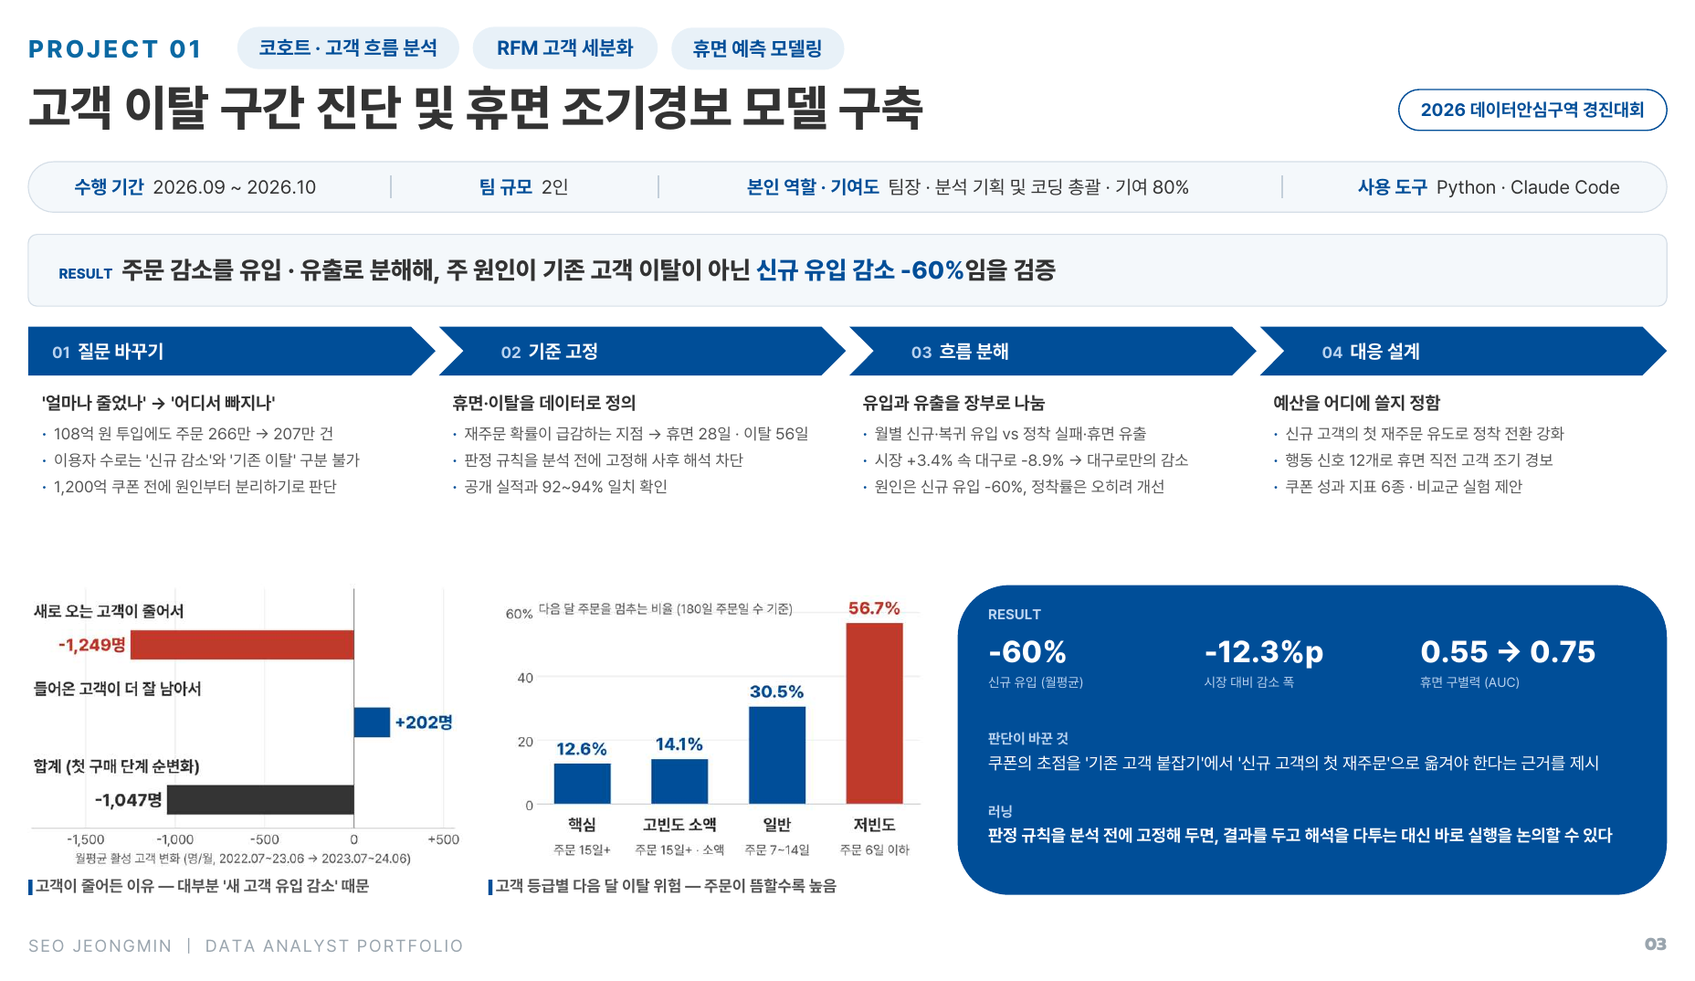
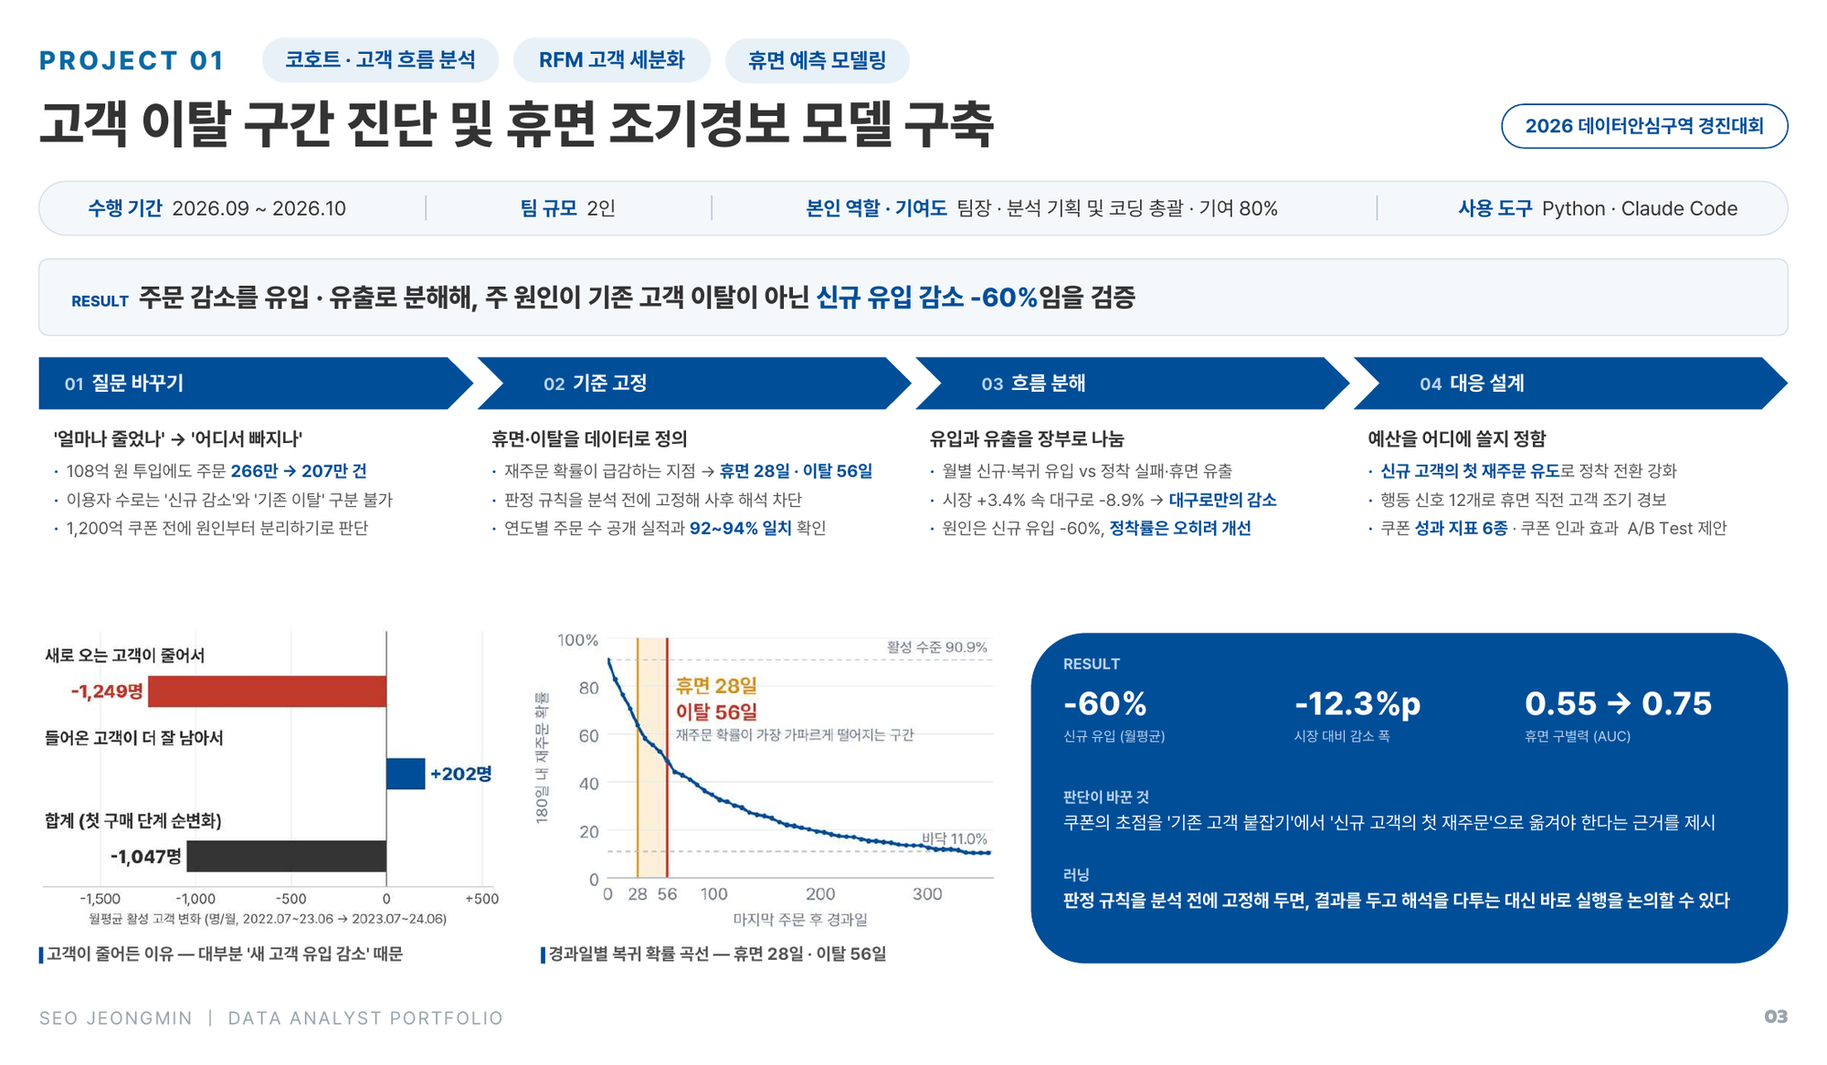
최신 이력서·포트폴리오(2026.11) 기준으로 프로필과 포트폴리오 업데이트
Claude-Session: https://claude.ai/code/session_0134F1m4MGLCqW6YdwAMnEyj

diff --git a/README.md b/README.md
@@ -3,13 +3,13 @@
 **데이터 기반 의사결정을 추구하는 데이터 분석가**
 
 문제를 어떻게 정의하고 구조화할지부터 정하고, 판정 기준을 분석 전에 고정한 뒤, 결론을 액션 중심으로 바꿔 전달해 왔습니다.
-소득계층별 체감물가 분석으로 **2026 국가데이터활용대회 전국 2위**를 수상했고, 기숙사 VOC 분석에서 나온 제안 **4건이 생활원 차기 운영계획에 반영**됐습니다.
+소득계층별 체감물가 분석으로 **2026 국가데이터활용대회 전국 2위**를 수상했고, 기숙사 VOC 분석에서 나온 제안 **4건은 생활원의 차기 운영계획에 공식 반영**됐습니다.
 
 📧 wjdals3232@gmail.com · 🔗 [github.com/mathsjm32](https://github.com/mathsjm32) · 🎖 육군 병장 만기전역 (2021.07 ~ 2023.01)
 
 | **-60%** | **AUC 0.55 → 0.75** | **전국 2위** | **2 → 20건** |
 |:---:|:---:|:---:|:---:|
-| 주문 감소의 원인(신규 유입) 규명 | 휴면 조기경보 구별력 개선 | 국가데이터활용대회 포스터 부문 | 주간 고객 문의 (4~8주차 평균) |
+| 주문 감소의 원인(신규 유입) 규명 | 휴면 조기경보 구별력 (기존 0.55) | 국가데이터활용대회 포스터 부문 | 주간 고객 문의 (4~8주차 평균) |
 
 ---
 
@@ -17,12 +17,32 @@
 
 | | 프로젝트 | 핵심 결과 |
 |:---:|---|---|
-| **P01** | [고객 이탈 구간 진단 및 휴면 조기경보 모델 구축](./Portfolio/고객이탈휴면조기경보)<br><sub>2026.09–10 · 2026 데이터안심구역 경진대회 · 공공배달앱 대구로 · 2인 팀장 · Python</sub> | 주문 감소의 주원인이 기존 고객 이탈이 아닌 **신규 유입 감소(-60%)** 임을 검증, 휴면 예측 AUC 0.55 → 0.75 |
-| **P02** | [경쟁사 분석 자동화로 SNS 운영 효율 및 성과 개선](./Portfolio/SNS경쟁사분석자동화)<br><sub>2026.09–10 · 글로브포인트 인턴(미래내일 일경험) · Supermetrics, Claude</sub> | 콘텐츠당 조회 **3.2~5.2배**, 주간 문의 **2 → 20건**, 경쟁사 탐색 10h → 1h |
-| **P03** | [소비 데이터 기반 계층별 부담 진단 및 타깃 전략 도출](./Portfolio/소득분위별소비분석)<br><sub>2026.04–07 · 국가데이터활용대회 우수상(전국 2위) · 개인 · Python</sub> | 저소득층 식료품·주거 부담 = 고소득층의 **1.8~2.1배**, 1분위 체감물가 +1.21%p (95% CI +0.73~+1.66) |
-| **P04** | [사용자 불만 데이터 기반 개선 우선순위 도출](./Portfolio/기숙사문제개선)<br><sub>2025.09–12 · 2025 정주대학 성과평가 우수상 · 기숙사 VOC · 3인 팀장 · SPSS, Python</sub> | 11개 불만 범주 → 최우선 2개 과제 압축, 차기 운영계획 **4건 반영** |
+| **P01** | [고객 이탈 구간 진단 및 휴면 조기경보 모델 구축](./Portfolio/고객이탈휴면조기경보)<br><sub>2026.09–10 · 2026 데이터안심구역 경진대회 · 공공배달앱 대구로 · 2인 팀장 · Python</sub> | 주문 감소를 유입 · 유출로 분해해, 주원인이 기존 고객 이탈이 아닌 **신규 유입 감소(-60%)** 임을 검증 · 휴면 조기경보 AUC 0.55 → 0.75 |
+| **P02** | [경쟁사 분석 자동화로 SNS 운영 효율 및 성과 개선](./Portfolio/SNS경쟁사분석자동화)<br><sub>2026.09–10 · 글로브포인트 인턴(미래내일 일경험) · Supermetrics, Claude</sub> | 감으로 만들던 숏폼을 업계 데이터로 검증한 공식으로 바꿔 콘텐츠당 조회 **3.2~5.2배** · 주간 문의 **2 → 20건** · 경쟁사 탐색 10h → 1h |
+| **P03** | [소비 데이터 기반 계층별 부담 진단 및 타깃 전략 도출](./Portfolio/소득분위별소비분석)<br><sub>2026.04–07 · 국가데이터활용대회 우수상(전국 2위) · 개인 · Python</sub> | 평균에 가려진 부담을 계층별로 쪼개, 저소득층 식료품 · 주거 부담 = 고소득층의 **1.8~2.1배** · 1분위 체감물가 +1.21%p (95% CI +0.73~+1.66) |
+| **P04** | [사용자 불만 데이터 기반 개선 우선순위 도출](./Portfolio/기숙사문제개선)<br><sub>2025.09–12 · 2025 정주대학 성과평가 우수상 · 기숙사 VOC · 3인 팀장 · SPSS, Python</sub> | 직접 설계한 설문으로 11개 불만 범주 → 최우선 2개 과제 압축, 차기 운영계획 **4건 공식 반영** (Wi-Fi 공유기 교체 · 냉장고 실명제 등) |
 
-👉 전체 포트폴리오: [Portfolio](./Portfolio)
+<details>
+<summary><b>프로젝트별 문제 해결 흐름 (이력서 요약)</b></summary>
+
+**P01 · 질문 바꾸기 → 기준 고정 → 흐름 분해 → 검증 · 대응**
+- **질문 바꾸기** 108억 원 투입에도 주문 266만 → 207만 건, 이용자 수로는 구분되지 않는 '신규 유입 감소 vs 기존 고객 이탈'을 분리 대상으로 설정
+- **기준 고정** 주문 877만 건 · 고객 60.4만 명에서 재주문 확률이 급감하는 지점으로 휴면 28일 · 이탈 56일 정의, 판정 규칙을 분석 전에 고정
+- **검증 · 대응** 연도별 주문 수 공개 실적과 92~94% 일치 · 6개 조건 재검증 후 시장 +3.4% 속 -8.9%의 원인을 신규 유입으로 확정, 휴면 조기경보(AUC 0.55 → 0.75) · 쿠폰 성과 지표 6종 제안
+
+**P03 · 질문 바꾸기 → 데이터 정합 → 격차 검증 → 모델 · 제안**
+- **질문 바꾸기** 평균 소비자물가지수가 계층별 차이를 가린다고 보고, 소득 5분위별 '체감물가 부담'을 측정 대상으로 재정의
+- **정합 · 검증** 가계동향 19.1만 가구 × 소비자물가를 품목 단위 디플레이터로 맞추고, 1분위 +1.21%p를 부트스트랩 95% CI(+0.73~+1.66)로 확인
+- **모델 · 제안** ML 9종 중 MAE 최저 HGB 대신 기간별 안정성이 높은 RF 채택, 하위 40% 우선 지원 기준 · 이상 징후 경보 룰(정책 신호등) 제안
+
+**P04 · 문제 정의 → 설문 재설계 → VOC 분석 → 설득 · 반영**
+- **문제 정의** 사생 2,700명의 불만이 흩어져 있고 기존 만족도 조사로는 원인을 알 수 없어, '무엇부터 고칠지'를 정하는 것을 목표로 설정
+- **설문 · VOC 분석** 29문항 설문(76명, α 0.886)과 서술형 텍스트 마이닝으로 11개 범주 중 취사실(36건) · Wi-Fi(35건)를 최우선으로 압축, 남자 기숙사 인터넷 불만 유의(p = 0.004)
+- **설득 · 반영** 4대 제안서로 생활원장 1:1 면담 → 설문 문항 개편 · 냉장고 이름/호실 기재 의무화 · Wi-Fi 공유기 교체 · 공부공간 2시간 이상 이석 시 벌점이 차기 운영계획에 반영
+
+</details>
+
+👉 전체 포트폴리오 (슬라이드 이미지 포함): [Portfolio](./Portfolio)
 
 ---
 
@@ -33,18 +53,20 @@
 
 감으로 만들던 숏폼을 업계 데이터로 검증한 공식으로 바꿔 **콘텐츠당 조회 3.2~5.2배 · 주간 문의 2 → 20건**
 
+`측정 설계` → `데이터 확보` → `통제 비교` → `팀 적용`
+
 - **측정 설계** 조회수 대신 구매 결정자의 주간 문의수를 KPI로 고정하고, 광고 100만 원 집행분은 전후 비교에서 분리
-- **데이터 확보** 경쟁사 193곳 채널 탐색을 Claude in Chrome으로 자동화(약 10시간 → 1시간), 불확실한 '추정' 16개만 직접 검수해 109개사 확보
+- **데이터 확보** 경쟁사 193곳 탐색을 Claude in Chrome으로 자동화(10시간 → 1시간), '추정' 16개는 직접 검수해 오연결 10개 정정 · 109개사 확정
 - **통제 비교** 38개 채널 숏폼 1,978개를 같은 채널·분기끼리 비교(95% 신뢰구간)해 채널 규모·시기 효과를 걷어내고, 해시태그 3개 이상(1.84배)·질문형 제목(1.22배) 확인
 - **팀 적용** 숏폼 기획·제작 매뉴얼로 16건을 같은 기준으로 운영(9건 개인 제작), 성과 진단 자동화 보고서(매일 09시 동기화)는 회사에 인수인계
 
 ---
 
-## 🧭 How I Work
+## 🧭 Strengths · 판단 방식
 
 | 문제를 쪼개는 구조화 | 결론 전에 기준 고정 | 데이터 기반 문제해결 |
 |---|---|---|
-| **신규 유입 -60%**<br>이용자 감소를 유입·유출로 분해해 주원인이 신규 유입 감소임을 특정 | **규칙 선고정 · CI**<br>판정 규칙을 미리 정하고 신뢰구간·미래 기간으로 결론을 검증 | **운영계획 4건 반영**<br>VOC로 '개선 우선순위'를 도출해 생활원 운영에 반영 |
+| **신규 유입 -60%**<br>이용자 감소를 유입 · 유출로 분해해 주원인이 신규 유입 감소임을 특정 | **규칙 선고정 · CI**<br>판정 규칙을 미리 정하고 신뢰구간·미래 기간으로 결론을 검증 | **운영계획 4건 반영**<br>VOC로 '개선 우선순위'를 도출해 생활원 운영에 반영 |
 
 ---
 
@@ -86,16 +108,17 @@
 
 ---
 
-## 🏆 Awards
+## 🏆 Awards & Scholarship
 
 | 일자 | 수상 | 주관 | 내용 |
 |:---:|---|---|---|
 | 2026.08 | **국가데이터활용대회 포스터 부문 우수상 (전국 2위)** | 국가데이터처 | '소득분위 계층별 소비구조 변화와 체감물가 부담의 분배적 분석' · 부문 유일 개인 수상 → [P03](./Portfolio/소득분위별소비분석) |
 | 2026.07 | 직무 포트폴리오 경진대회 장려상 (3위) | 인천대 취업경력개발원 | 4단계(실습교육 > 제작코칭 > 발표코칭 > 발표대회) 참여, 데이터분석 직무 포트폴리오 발표 |
 | 2025.12 | 2025 정주대학 성과평가 우수상 (2위) | 인천대 기초교육원 | 기숙사 VOC 분석으로 개선 우선순위 도출, 운영계획 반영 → [P04](./Portfolio/기숙사문제개선) |
+| 2025.03 | **한국지도자육성장학재단 장학생** | 한국지도자육성장학재단 | 교내 2명 총장 추천 → 전국 90명 내외 서류 · 면접 최종 선발 · 3, 4학년 등록금 전액 + 학기당 100만 원 |
 | 2024.12 | 2024 정주대학 성과평가 우수상 | 인천대 기초교육원 | 사망원인통계 기반 연령대별 맞춤형 금융교육 정책 제언 → [기타 프로젝트](./Portfolio/자살예방정책제언) |
-| 2024.10 | 우수 사회공헌 동아리활동 공모전 최우수상 (총장상) | 인천대 학생지원과 | 보육원 대상 6개월 수학 교육봉사 기획·운영 |
-| 2024.05 | 학생설계융합전공 설계 공모전 장려상 (3위) | 인천대 융합자유전공대학 | 수학 · 경영학 · 데이터과학 융합 복수전공 커리큘럼 설계 |
+| 2024.10 | 우수 사회공헌 동아리활동 공모전 최우수상 (총장상) | 인천대 학생지원과 | 보육원 대상 6개월 수학 교육봉사 기획 · 운영, 취약계층 학습 격차 해소 공로 |
+| 2024.05 | 학생설계융합전공 설계 공모전 장려상 (3위) | 인천대 융합자유전공대학 | 수학 · 경영학 · 데이터과학 융합 복수전공 커리큘럼 직접 설계 (교내 컨설턴트 상담, 데이터과학과 학과장 담임교수 지정) |
 
 ---
 
@@ -103,11 +126,10 @@
 
 | 기간 | 활동 | 내용 |
 |:---:|---|---|
-| 2025.03 – 12 | **기숙사 자치회장** | 사생 2,700명+ 대표 · 기숙사 운영위원회 최초 학생위원 · 자치회 서포터즈 1기 신설 · 사생 설문 데이터로 운영 개선 제안 |
-| 2025.01 – 12 | **수학과 학생회장** | 예산 · 행사 총괄, 모집 릴스 조회수 25.4만 회로 학생회 계정 활성화 |
+| 2025.03 – 12 | **기숙사 자치회장** | 사생 2,700명+ 대표 · 기숙사 운영위원회 최초 학생위원 · 자치회 서포터즈(도미크루) 1기 신설 및 SNS 홍보 · 사생 설문 데이터로 운영 개선 제안 |
+| 2025.01 – 12 | **수학과 학생회장** | 수학과 재학생 대표 · 학생회 총괄, 예산 집행 관리 · 학과 행사 기획 및 운영, 모집 릴스 조회수 25.4만 회로 학생회 계정 활성화 |
 | 2026.04 – 06 | **Python 데이터분석 스터디 튜터** | 튜티 3명에게 주 1회 2시간 교육, Claude Code로 수준별 교재 제작 |
 | 2024-2 · 2025-2 | 정주대학 데이터분석 프로젝트 팀장 | 2개 학기 팀장, 두 프로젝트 모두 성과평가 우수상 |
-| 2025.03 – 2026.12 | 한국지도자육성장학재단 장학생 | 교내 2명 총장 추천 → 전국 90명 내외 서류·면접 최종 선발 |
 | 2024.05 – 10 | 보육원 수학교육봉사 팀장 | 팀 구성 · 보육원 섭외부터 6개월 개인 과외 · 단체 활동 운영 (최우수상) |
 | 2024.09 – 2025.12 | 수학과 자기계발 소모임 회장 | 전공 스터디, 원어민 교수와의 영어회화, 생활습관 챌린지 운영 |
 
@@ -115,5 +137,5 @@
 
 | 기간 | 활동 | 내용 |
 |:---:|---|---|
-| 2025.07 · 2주 | **하와이주립대학 어학연수** | 인천대 대표 4인 선발 (대학 450만 원 지원), 집중 어학 연수 및 문화 교류 |
+| 2025.07 · 2주 | **하와이주립대학 어학연수** | 인천대 대표 4인 선발 (대학 450만 원 지원), 대표 학생으로 대학 · 프로그램 담당자와 소통, 집중 어학 연수 및 문화 교류 |
 | 2025.01 · 2주 | **캄보디아 교육봉사** | INU 글로벌 사회공헌단, 현지 학생 대상 과학 · 예체능 수업을 기획하고 영어로 진행 |

diff --git a/Portfolio/README.md b/Portfolio/README.md
@@ -2,8 +2,10 @@
 
 [← Resume로 돌아가기](../)
 
-모든 프로젝트를 **질문 바꾸기 → 기준 고정 → 분해 · 검증 → 대응 설계**의 같은 흐름으로 정리했습니다.
-각 프로젝트 페이지에 슬라이드 원본 이미지와 상세 과정을 담았습니다.
+데이터분석 직무 포트폴리오는 **① 프로필 · ② 데이터 기반 문제 해결(P01~P04) · ③ 기획력 · 실행력 · ④ 리더십 · ⑤ 글로벌 커뮤니케이션** 순으로 구성했습니다.
+모든 프로젝트를 **질문 바꾸기 → 기준 고정 → 분해 · 검증 → 대응 설계**의 같은 흐름으로 정리했고, 각 프로젝트 페이지에 최신 슬라이드 이미지와 상세 과정을 담았습니다.
+
+<img src="./profile.png" width="720" alt="포트폴리오 프로필 페이지">
 
 ---
 
@@ -11,7 +13,8 @@
 `코호트 · 고객 흐름 분석` `RFM 고객 세분화` `휴면 예측 모델링` · 2026 데이터안심구역 경진대회 · 2인 팀장 · Python
 
 - 108억 원 투입에도 주문이 266만 → 207만 건으로 줄어든 공공배달앱 '대구로'의 감소를 유입 · 유출로 분해해, 주원인이 기존 고객 이탈이 아닌 **신규 유입 감소(-60%)** 임을 검증
-- 재주문 확률 급감 지점으로 휴면 28일 · 이탈 56일을 정의하고, 행동 신호 기반 휴면 조기경보로 **AUC 0.55 → 0.75**
+- 재주문 확률 급감 지점으로 휴면 28일 · 이탈 56일을 정의(공개 실적과 92~94% 일치), 행동 신호 12개 기반 휴면 조기경보로 **AUC 0.55 → 0.75**
+- 쿠폰의 초점을 '신규 고객의 첫 재주문'으로 옮기고, 쿠폰 성과 지표 6종 · 쿠폰 인과 효과 A/B Test 제안
 
 <a href="./고객이탈휴면조기경보"><img src="./고객이탈휴면조기경보/P01_slide.png" width="720" alt="P01 슬라이드"></a>
 
@@ -20,6 +23,7 @@
 ### P02 · [경쟁사 분석 자동화로 SNS 운영 효율 및 성과 개선](./SNS경쟁사분석자동화) | 2026.09 ~ 2026.10
 `반복 업무 자동화` `경쟁사 분석` `콘텐츠 그로스` · 글로브포인트 인턴(미래내일 일경험) · 기여 80% · Supermetrics, Claude
 
+- 경쟁사 193곳 탐색을 Claude in Chrome으로 자동화(10h → 1h)하고 '추정' 16개를 직접 검수해 109개사 확정
 - KPI를 조회수가 아닌 **주간 문의 수**로 고정하고, 38개 채널 숏폼 1,978개를 같은 채널 · 분기끼리 비교해 제작 공식(해시태그 3개 이상 1.84배 · 질문형 제목 1.22배) 도출
 - 콘텐츠당 조회 **3.2~5.2배**, 주간 문의 **2 → 20건**, 경쟁사 탐색 **10h → 1h**
 
@@ -41,9 +45,40 @@
 `VOC 분석` `개선 우선순위 설정` `의사결정권자 설득` · 2025 정주대학 성과평가 우수상 · 3인 팀장 · SPSS, Python
 
 - 29문항 설문(76명, Cronbach's α 0.886)과 서술형 텍스트 마이닝으로 11개 불만 범주 중 취사실 · Wi-Fi를 최우선 과제로 압축
-- 4대 제안서로 생활원장 1:1 면담 → 차기 운영계획에 **4건 반영** (Wi-Fi 공유기 교체 · 냉장고 실명제 등)
+- 4대 제안서로 생활원장 1:1 면담 → 차기 운영계획에 **4건 공식 반영** (Wi-Fi 공유기 교체 · 냉장고 실명제 등)
 
 <a href="./기숙사문제개선"><img src="./기숙사문제개선/P04_slide.png" width="720" alt="P04 슬라이드"></a>
+
+---
+
+## 기획력 · 실행력
+
+**학생설계융합전공 복수전공 · 빅데이터 기반 수학적 경영** — 학생설계융합전공 설계 공모전 장려상 (3위)
+- 실무에 적합한 데이터 인재가 되기 위해 수학 · 경영학 · 데이터과학을 융합한 복수전공을 직접 설계
+- 교내 컨설턴트와 수차례 상담하며 커리큘럼을 짜고, 데이터과학과 학과장을 담임교수로 지정
+
+**보육원 수학교육봉사 팀장** | 2024.05 ~ 2024.10 — 우수 사회공헌 동아리활동 공모전 최우수상 (총장상)
+- 수학과 팀원 구성부터 보육원 섭외까지 직접 진행
+- 6개월간 개인 과외와 단체 활동을 병행하며 수학 흥미 제고 → 취약계층 학습 격차 해소 공로로 최우수상
+
+---
+
+## 리더십
+
+| 기간 | 역할 | 내용 |
+|:---:|---|---|
+| 2025.03 ~ 2025.12 | **기숙사 자치회장** | 2,700명+ 사생 대표 · 최초 기숙사 운영위원회 학생위원 임명 · 자치회 서포터즈(도미크루) 1기 신설 및 SNS 홍보 · 사생 의견을 설문 데이터로 수집 · 분석해 실제 운영 개선 |
+| 2025.01 ~ 2025.12 | **수학과 학생회장** | 수학과 재학생 대표 · 학생회 총괄, 예산 집행 관리, 학과의 모든 행사 기획 및 운영 |
+| 2025 ~ 2026 | **한국지도자육성장학재단 장학생** | 성적 · 수상 · 자기소개서 종합, 교내 2명 총장 추천 → 전국 90명 내외 서류 · 면접 최종 선발 · 3, 4학년 등록금 전액 + 학기당 100만 원 |
+
+---
+
+## 글로벌 커뮤니케이션
+
+| 기간 | 활동 | 내용 |
+|:---:|---|---|
+| 2025.01 · 2주 | **캄보디아 교육봉사** (INU 글로벌 사회공헌단) | 현지 학생 대상 과학 · 예체능 수업을 기획하고, 2주간 현장에서 영어로 수업 진행 |
+| 2025.07 · 2주 | **하와이주립대학 어학연수** (교내 대표 4인) | 인천대 대표 4인 최종 선발(대학 450만 원 지원), 대표 학생으로 대학 · 프로그램 담당자와 소통, 집중 어학 연수 및 문화 교류 |
 
 ---
 

diff --git a/Portfolio/고객이탈휴면조기경보/README.md b/Portfolio/고객이탈휴면조기경보/README.md
@@ -29,7 +29,7 @@
 - 주문 **877만 건**과 신한카드 대구 배달 결제 데이터를 고객 × 일 단위로 결합해 **60.4만 명 × 42개월** 상태 행렬 구축
 - 경과일별 재주문(복귀) 확률이 급감하는 지점을 기준으로 **휴면 28일 · 이탈 56일** 정의
 - 판정 규칙을 **분석 전에 고정**해 결과를 보고 기준을 바꾸는 사후 해석을 차단
-- 재구성한 지표가 공개 실적과 **92~94% 일치**함을 확인
+- 재구성한 연도별 주문 수가 공개 실적과 **92~94% 일치**함을 확인
 
 ## 3. 흐름 분해 — 유입과 유출을 장부로 나눔
 
@@ -43,13 +43,13 @@
 
 - 쿠폰의 초점을 **신규 고객의 첫 재주문 유도**(정착 전환 강화)로 이동
 - 행동 신호 12개 기반 휴면 예측 모형으로, 경과일 단독 기준 대비 **AUC 0.55 → 0.75**
-- 신규 유입 × d1 정착률 중심의 **쿠폰 성과 지표 6종**과 무작위 보류군(비교군) 실험 설계 제안
+- 신규 유입 × d1 정착률 중심의 **쿠폰 성과 지표 6종**과, 쿠폰의 인과 효과를 확인할 무작위 보류군(비교군) **A/B Test** 설계 제안
 
 ---
 
 ## 검증과 한계
 
-- 공개 실적과 92~94% 일치, 미래 기간 검증 후 원인을 '신규 유입 감소'로 확정
+- 연도별 주문 수가 공개 실적과 92~94% 일치함을 확인하고, **6개 조건 재검증** · 미래 기간 검증을 거쳐 시장 +3.4% 속 -8.9%의 원인을 '신규 유입 감소'로 확정
 - 데이터로 검증할 수 없는 **할인 종료 효과는 '판정 불가'로 명시**
 - 원천 데이터와 분석 코드는 이 레포지토리에 포함하지 않았습니다
 

diff --git a/Portfolio/기숙사문제개선/README.md b/Portfolio/기숙사문제개선/README.md
@@ -8,7 +8,7 @@
 |:---:|:---:|:---:|:---:|
 | 2025.09 ~ 2025.12 | 3인 | 팀장 · 기여 60% | SPSS · Python |
 
-> **RESULT** 직접 설계한 설문 데이터로 개선 우선순위를 도출해 — 차기 운영계획에 **4건 반영** (Wi-Fi 공유기 교체 · 냉장고 실명제 등)
+> **RESULT** 직접 설계한 설문 데이터로 개선 우선순위를 도출해 — 차기 운영계획에 **4건 공식 반영** (Wi-Fi 공유기 교체 · 냉장고 실명제 등)
 
 ![P04 슬라이드](./P04_slide.png)
 
